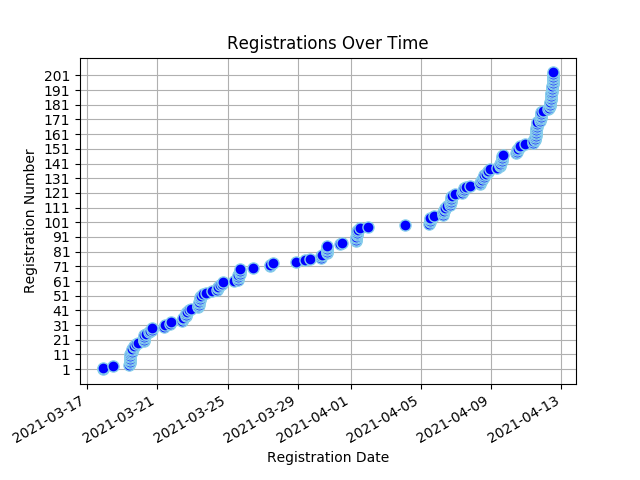
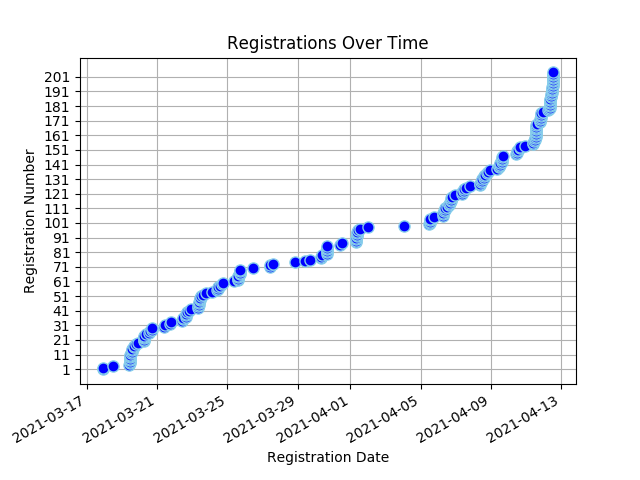
Registree stats backup on Mon 12 Apr 2021 13:23:07 SAST

diff --git a/content/registrees/_index.md b/content/registrees/_index.md
@@ -3,11 +3,11 @@ title: Registration Stats
 draft: false
 ---
 
-<ul><li><strong>Number of Registrees</strong>: 203</li>
+<ul><li><strong>Number of Registrees</strong>: 204</li>
 
 <li><strong>Number of Clubs</strong>: 62</li>
 
-<li><strong>Club With Most Attendees</strong>: Windhoek (13 registrees)</li>
+<li><strong>Club With Most Attendees</strong>: Windhoek (14 registrees)</li>
 </ul><h2>Registrees</h2>
 
 <script type="text/javascript" src="https://ajax.googleapis.com/ajax/libs/jquery/3.4.1/jquery.min.js"></script>
@@ -33,6 +33,6 @@ draft: false
         </tr>
     </thead>
     <tbody>
-<tr><td>Natalie Abrahams</td><td>Cape Town</td><td>410W</td></tr><tr><td>Rashid Adams</td><td>Athlone</td><td>410W</td></tr><tr><td>Linda Anderson</td><td>George</td><td>410W</td></tr><tr><td>Neale Stewart ANDREWS</td><td>Cowies Hill</td><td>410E</td></tr><tr><td>Linda Baumgarten</td><td>Sea Point</td><td>410W</td></tr><tr><td>Ulrike Behrens</td><td>Windhoek</td><td>410W</td></tr><tr><td>Valencia Beukes-Williams</td><td>Kuilsriver</td><td>410W</td></tr><tr><td>Belinda Blakeman</td><td>North Durban</td><td>410E</td></tr><tr><td>Lyn(ette) Botha</td><td>Cowies Hill</td><td>410E</td></tr><tr><td>JOSE BRAGA BORGES</td><td>Malmesbury</td><td>410W</td></tr><tr><td>JOSE BRAGA BORGES</td><td>Malmesbury</td><td>410W</td></tr><tr><td>Paul Brauteseth</td><td>Port Shepstone</td><td>410E</td></tr><tr><td>Nelle Buhrmann</td><td>Sea Point</td><td>410W</td></tr><tr><td>Christopher Bull</td><td>The Wilds</td><td>410E</td></tr><tr><td>Herman Cadman</td><td>Stellenbosch</td><td>410W</td></tr><tr><td>Artemis Calomiris</td><td>Helderberg</td><td>410W</td></tr><tr><td>Linda Ann Cannone</td><td>Fish Hoek</td><td>410W</td></tr><tr><td>Lizelle Castle</td><td>Athlone</td><td>410W</td></tr><tr><td>Sue Charles</td><td>Tokai</td><td>410W</td></tr><tr><td>Perry Chetty</td><td>East Coast</td><td>410E</td></tr><tr><td>Delaney Yeltsin Cloete</td><td>Eden</td><td>410W</td></tr><tr><td>Kate Coppen</td><td>Letaba Tzaneen</td><td>410E</td></tr><tr><td>Kate Coppen</td><td>Letaba Tzaneen</td><td>410E</td></tr><tr><td>Esme Cornelius</td><td>Kuilsriver</td><td>410W</td></tr><tr><td>Sharon Cottle</td><td>Groote Schuur</td><td>410W</td></tr><tr><td>Peter Daniel</td><td>Gordons Bay</td><td>410W</td></tr><tr><td>Norma Daniel</td><td>Gordons Bay</td><td>410W</td></tr><tr><td>Engela de Kock</td><td>Swellendam</td><td>410W</td></tr><tr><td>Francois de Kock</td><td>Swellendam</td><td>410W</td></tr><tr><td>ANDRE DE VILLIERS</td><td>Malgas</td><td>410W</td></tr><tr><td>ANDRE DE VILLIERS</td><td>Malgas</td><td>410W</td></tr><tr><td>Peggy Du Plooy</td><td>Krugersdorp</td><td>410E</td></tr><tr><td>Ivan Du Plooy</td><td>Krugersdorp</td><td>410E</td></tr><tr><td>Tammy du Plooy</td><td>Alberton</td><td>410E</td></tr><tr><td>Marc du Plooy</td><td>Alberton</td><td>410E</td></tr><tr><td>Desiree du Toit</td><td>Ramsgate</td><td>410E</td></tr><tr><td>Freddie Erasmus</td><td>Uitenhage</td><td>410E</td></tr><tr><td>Natalie Etridge</td><td>Sedgefield</td><td>410W</td></tr><tr><td>AIDAN Ewers</td><td>Newlands</td><td>410W</td></tr><tr><td>Roger Fahrbach</td><td>Windhoek</td><td>410W</td></tr><tr><td>Beate Fahrbach</td><td>Windhoek</td><td>410W</td></tr><tr><td>Jules Flanagan</td><td>Tokai</td><td>410W</td></tr><tr><td>Charles Flanagan</td><td>Tokai</td><td>410W</td></tr><tr><td>Clive Fox</td><td>Merriman</td><td>410W</td></tr><tr><td>Pat Fox</td><td>Merriman</td><td>410W</td></tr><tr><td>Martin Froise</td><td>Letaba Tzaneen</td><td>410E</td></tr><tr><td>Valerie Graham</td><td>Nelspruit</td><td>410E</td></tr><tr><td>Mike Graham</td><td>Nelspruit</td><td>410E</td></tr><tr><td>Viv Grater</td><td>Sedgefield</td><td>410W</td></tr><tr><td>Matty Grobler</td><td>Henties Bay</td><td>410W</td></tr><tr><td>Mattheus Groves</td><td>Sedgefield</td><td>410W</td></tr><tr><td>Barbara Haywood</td><td>Eden</td><td>410W</td></tr><tr><td>Mike Heathcote</td><td>Port Shepstone</td><td>410E</td></tr><tr><td>Zarina Hendricks</td><td>Athlone</td><td>410W</td></tr><tr><td>Evelyn Herzfeld</td><td>Edenvale</td><td>410E</td></tr><tr><td>Dorothy Hess</td><td>Kuilsriver</td><td>410W</td></tr><tr><td>Wendy Higgins</td><td>Wilro Park</td><td>410E</td></tr><tr><td>Jacqui Hocking</td><td>Midrand</td><td>410E</td></tr><tr><td>Cliff Hocking</td><td>Midrand</td><td>410E</td></tr><tr><td>Ellen G W Hoffmann</td><td>Windhoek</td><td>410W</td></tr><tr><td>KEITH ALEXANDER HOLLIMAN</td><td>Alberton</td><td>410E</td></tr><tr><td>Liz Houston</td><td>Table View</td><td>410W</td></tr><tr><td>John Houston</td><td>Table View</td><td>410W</td></tr><tr><td>Alna Jackson</td><td>Pretoria Jakaranda</td><td>410E</td></tr><tr><td>Dawid Jacobs</td><td>Durbanville</td><td>410W</td></tr><tr><td>Jean Jacobs</td><td>Mitchells Plain</td><td>410W</td></tr><tr><td>WOLSLEY Jacobson</td><td>Cape Town</td><td>410W</td></tr><tr><td>MALCOLM JOHNSTON</td><td>Standerton</td><td>410E</td></tr><tr><td>Grant Jonathan</td><td>Gordons Bay</td><td>410W</td></tr><tr><td>Jerome Kern</td><td>Groote Schuur</td><td>410W</td></tr><tr><td>Ian King</td><td>Alberton</td><td>410E</td></tr><tr><td>Sandy King</td><td>Alberton</td><td>410E</td></tr><tr><td>Christa Koekemoer</td><td>Letaba Tzaneen</td><td>410E</td></tr><tr><td>Muya Koloko</td><td>Durbanville</td><td>410W</td></tr><tr><td>Zwaai Kruger</td><td>Sedgefield</td><td>410W</td></tr><tr><td>Natalie Laas</td><td>Alberton</td><td>410E</td></tr><tr><td>Bevil Lakay</td><td>Mitchells Plain</td><td>410W</td></tr><tr><td>Bevil Lakay</td><td>Mitchells Plain</td><td>410W</td></tr><tr><td>Paula Lang</td><td>Gordons Bay</td><td>410W</td></tr><tr><td>Jimmy Lang</td><td>Gordons Bay</td><td>410W</td></tr><tr><td>Jeanette le Roux</td><td>Gonubie</td><td>410E</td></tr><tr><td>Heather Lee</td><td>Cape Of Good Hope</td><td>410W</td></tr><tr><td>Dee Love</td><td>Cowies Hill</td><td>410E</td></tr><tr><td>Zarina Luck</td><td>Newcastle</td><td>410E</td></tr><tr><td>Pam MacRobert</td><td>Groote Schuur</td><td>410W</td></tr><tr><td>Pam MacRobert</td><td>Groote Schuur</td><td>410W</td></tr><tr><td>Sharon Mangwende</td><td>Cape Town</td><td>410W</td></tr><tr><td>Richard MARCHANT</td><td>The Wilds</td><td>410E</td></tr><tr><td>Beaulieu Mare</td><td>Benoni Lakes</td><td>410E</td></tr><tr><td>Nick Maré</td><td>Benoni Lakes</td><td>410E</td></tr><tr><td>Jean Masson</td><td>Port Shepstone</td><td>410E</td></tr><tr><td>LANCE MAYTHAM</td><td>Swellendam</td><td>410W</td></tr><tr><td>ROSEMARIE MAYTHAM</td><td>Swellendam</td><td>410W</td></tr><tr><td>David Mccullough</td><td>Pretoria South</td><td>410E</td></tr><tr><td>Rochelle McDonald</td><td>Vereeniging</td><td>410E</td></tr><tr><td>Alec McKerrow</td><td>Port Alfred</td><td>410E</td></tr><tr><td>Stuart McPherson</td><td>Newlands</td><td>410W</td></tr><tr><td>Mark Meltzer</td><td>The Wilds</td><td>410E</td></tr><tr><td>Denis Meyer</td><td>Port Shepstone</td><td>410E</td></tr><tr><td>Roy Michas</td><td>Midrand</td><td>410E</td></tr><tr><td>Dawn Michas</td><td>Midrand</td><td>410E</td></tr><tr><td>BERNICE MILLS</td><td>Centurion</td><td>410E</td></tr><tr><td>Patrick Mills</td><td>Centurion</td><td>410E</td></tr><tr><td>Cherie Milosevich</td><td>Milnerton</td><td>410W</td></tr><tr><td>Alana Mitchell</td><td>Rustenburg</td><td>410E</td></tr><tr><td>Juan Mitchell</td><td>Rustenburg</td><td>410E</td></tr><tr><td>Virginia Mkhize</td><td>Cape Town</td><td>410W</td></tr><tr><td>Frauke E. Moeller</td><td>Windhoek</td><td>410W</td></tr><tr><td>Bernadine Moses</td><td>Cape Town</td><td>410W</td></tr><tr><td>Jacques Mostert</td><td>Merriman</td><td>410W</td></tr><tr><td>Suzanne Murray</td><td>Vereeniging</td><td>410E</td></tr><tr><td>Gary Murray</td><td>Vereeniging</td><td>410E</td></tr><tr><td>Pieter Myburg</td><td>Wellington</td><td>410W</td></tr><tr><td>Pieter Nel</td><td>George</td><td>410W</td></tr><tr><td>Tillie Nel</td><td>Eden</td><td>410W</td></tr><tr><td>Mike Newlands</td><td>Port Alfred</td><td>410E</td></tr><tr><td>Mike Newlands</td><td>Port Alfred</td><td>410E</td></tr><tr><td>Angela Niehaus</td><td>Bergvliet</td><td>410W</td></tr><tr><td>Rachel Nortjie</td><td>Mitchells Plain</td><td>410W</td></tr><tr><td>Chris Ocker</td><td>Fish Hoek</td><td>410W</td></tr><tr><td>Jenny Ocker</td><td>Fish Hoek</td><td>410W</td></tr><tr><td>Debra Olivier</td><td>Sedgefield</td><td>410W</td></tr><tr><td>Teresa Pantoleon</td><td>Vereeniging</td><td>410E</td></tr><tr><td>Sundru Pillay</td><td>Durbanville</td><td>410W</td></tr><tr><td>Patrick Pillay</td><td>Tygerberg Hills</td><td>410W</td></tr><tr><td>Tracey Polkinghorne</td><td>Kensington</td><td>410E</td></tr><tr><td>Gavin Polkinghorne</td><td>Kensington</td><td>410E</td></tr><tr><td>BRIAN PORTEOUS</td><td>Hibberdene</td><td>410E</td></tr><tr><td>Mary-Anne Ras</td><td>Swellendam</td><td>410W</td></tr><tr><td>Leon Jacobus Ras</td><td>Swellendam</td><td>410E</td></tr><tr><td>Hugo Reniers</td><td>Nelspruit</td><td>410E</td></tr><tr><td>Sandy Roman</td><td>Bergvliet</td><td>410W</td></tr><tr><td>Mark Rossouw</td><td>Tokai</td><td>410W</td></tr><tr><td>Anthonie Petrus Roux</td><td>Moorreesburg</td><td>410W</td></tr><tr><td>Irene Rugheimer</td><td>Bedfordview</td><td>410E</td></tr><tr><td>Ingrid Russell</td><td>Fish Hoek</td><td>410W</td></tr><tr><td>Rodney Sabatier</td><td>Letaba Tzaneen</td><td>410E</td></tr><tr><td>Sharon Sampie</td><td>Bergvliet</td><td>410W</td></tr><tr><td>Frank Schatz</td><td>Windhoek</td><td>410W</td></tr><tr><td>Vera Schatz</td><td>Windhoek</td><td>410W</td></tr><tr><td>Francis Searle</td><td>Kouga</td><td>410E</td></tr><tr><td>Gloria Searle</td><td>Kouga</td><td>410E</td></tr><tr><td>Ami Sell</td><td>Windhoek</td><td>410W</td></tr><tr><td>Beryl Simpson</td><td>Cape Town</td><td>410W</td></tr><tr><td>Kenlis Sircoulomb</td><td>Windhoek</td><td>410W</td></tr><tr><td>Holger Sircoulomb</td><td>Windhoek</td><td>410W</td></tr><tr><td>Hennie Smeer</td><td>Windhoek</td><td>410W</td></tr><tr><td>Sue Smit</td><td>Centurion</td><td>410E</td></tr><tr><td>Herman Smit</td><td>Swellendam</td><td>410W</td></tr><tr><td>Jeff Smith</td><td>Port Shepstone</td><td>410E</td></tr><tr><td>Bennie Smith</td><td>Wellington</td><td>410W</td></tr><tr><td>Carmen Dolores Smith</td><td>Tokai</td><td>410W</td></tr><tr><td>David John Smith</td><td>Tokai</td><td>410W</td></tr><tr><td>LYN SNYMAN</td><td>Deep South</td><td>410W</td></tr><tr><td>Diana Sochen</td><td>Sea Point</td><td>410W</td></tr><tr><td>Max Stander</td><td>Port Alfred</td><td>410E</td></tr><tr><td>Ashley Stander</td><td>Krugersdorp</td><td>410E</td></tr><tr><td>Brett Jason Stander</td><td>Krugersdorp</td><td>410E</td></tr><tr><td>TIM STEENBERG</td><td>Wellington</td><td>410W</td></tr><tr><td>RORY stier</td><td>Deep South</td><td>410W</td></tr><tr><td>Patrick Strauss</td><td>Kuilsriver</td><td>410W</td></tr><tr><td>Lauryn Talbot</td><td>Benoni Lakes</td><td>410E</td></tr><tr><td>Pierre Theron</td><td>Midrand</td><td>410E</td></tr><tr><td>Moira Theron</td><td>Midrand</td><td>410E</td></tr><tr><td>Diane Townsend</td><td>Benoni Lakes</td><td>410E</td></tr><tr><td>Diane Townsend</td><td>Benoni Lakes</td><td>410E</td></tr><tr><td>David Alex Tshikala</td><td>Athlone</td><td>410W</td></tr><tr><td>Alistair Tuckett</td><td>Roodepoort Clearwater Cyber</td><td>410E</td></tr><tr><td>Rowan Tuckett</td><td>Roodepoort Clearwater Cyber</td><td>410E</td></tr><tr><td>Gail Tuckett</td><td>Roodepoort Clearwater Cyber</td><td>410E</td></tr><tr><td>Jiri Uchytil</td><td>Alberton</td><td>410E</td></tr><tr><td>Carl van Blerk</td><td>Eden</td><td>410W</td></tr><tr><td>HILARY LISE VAN BREDA</td><td>Cape Town</td><td>410W</td></tr><tr><td>Marina Van de Merwe</td><td>Malmesbury</td><td>410W</td></tr><tr><td>Ingrid van der Merwe</td><td>Letaba Tzaneen</td><td>410E</td></tr><tr><td>PATRICIA VAN DER MERWE</td><td>East London Port Rex</td><td>410E</td></tr><tr><td>MARINA VAN DER MERWE</td><td>Malmesbury</td><td>410W</td></tr><tr><td>Sydney van Heerden</td><td>Wilro Park</td><td>410E</td></tr><tr><td>Sandy van Heerden</td><td>Wilro Park</td><td>410E</td></tr><tr><td>Craig van Heerden</td><td>East London Beacon Bay</td><td>410E</td></tr><tr><td>Neville Van Rensburg</td><td>Moorreesburg</td><td>410W</td></tr><tr><td>Johan van Rensburg</td><td>Windhoek</td><td>410W</td></tr><tr><td>Anne van Rensburg</td><td>Windhoek</td><td>410W</td></tr><tr><td>Jeannie van Wulven</td><td>Tygerberg Hills</td><td>410W</td></tr><tr><td>Alan van Wulven</td><td>Tygerberg Hills</td><td>410W</td></tr><tr><td>Deon van Wulven</td><td>Tygerberg Hills</td><td>410W</td></tr><tr><td>Jeannie van Wulven</td><td>Tygerberg Hills</td><td>410W</td></tr><tr><td>Alan van Wulven</td><td>Tygerberg Hills</td><td>410W</td></tr><tr><td>Kim van Wyk</td><td>North Durban</td><td>410E</td></tr><tr><td>Lindie van Wyk</td><td>Pretoria Jakaranda</td><td>410E</td></tr><tr><td>Edith Van Wyk-Nelson</td><td>Kuilsriver</td><td>410W</td></tr><tr><td>Louis Venter</td><td>Letaba Tzaneen</td><td>410E</td></tr><tr><td>Russell Volker</td><td>King William's Town</td><td>410E</td></tr><tr><td>Brian von der Decken</td><td>King William's Town</td><td>410E</td></tr><tr><td>Rinette Von Mollendorf</td><td>Durbanville</td><td>410W</td></tr><tr><td>Rochelle Vorster</td><td>Sedgefield</td><td>410W</td></tr><tr><td>Alastair Warman</td><td>Port Shepstone</td><td>410E</td></tr><tr><td>Allan Watson</td><td>Sea Point</td><td>410W</td></tr><tr><td>Alison Watson</td><td>Sedgefield</td><td>410W</td></tr><tr><td>Neville Williamson</td><td>Port Alfred</td><td>410E</td></tr><tr><td>Geila Wills</td><td>Athlone</td><td>410W</td></tr><tr><td>Rocky Wright</td><td>Table View</td><td>410W</td></tr><tr><td>Judy Young</td><td>Durbanville</td><td>410W</td></tr>
+<tr><td>Natalie Abrahams</td><td>Cape Town</td><td>410W</td></tr><tr><td>Rashid Adams</td><td>Athlone</td><td>410W</td></tr><tr><td>Linda Anderson</td><td>George</td><td>410W</td></tr><tr><td>Neale Stewart ANDREWS</td><td>Cowies Hill</td><td>410E</td></tr><tr><td>Linda Baumgarten</td><td>Sea Point</td><td>410W</td></tr><tr><td>Ulrike Behrens</td><td>Windhoek</td><td>410W</td></tr><tr><td>Valencia Beukes-Williams</td><td>Kuilsriver</td><td>410W</td></tr><tr><td>Belinda Blakeman</td><td>North Durban</td><td>410E</td></tr><tr><td>Lyn(ette) Botha</td><td>Cowies Hill</td><td>410E</td></tr><tr><td>JOSE BRAGA BORGES</td><td>Malmesbury</td><td>410W</td></tr><tr><td>JOSE BRAGA BORGES</td><td>Malmesbury</td><td>410W</td></tr><tr><td>Paul Brauteseth</td><td>Port Shepstone</td><td>410E</td></tr><tr><td>Nelle Buhrmann</td><td>Sea Point</td><td>410W</td></tr><tr><td>Christopher Bull</td><td>The Wilds</td><td>410E</td></tr><tr><td>Herman Cadman</td><td>Stellenbosch</td><td>410W</td></tr><tr><td>Artemis Calomiris</td><td>Helderberg</td><td>410W</td></tr><tr><td>Linda Ann Cannone</td><td>Fish Hoek</td><td>410W</td></tr><tr><td>Lizelle Castle</td><td>Athlone</td><td>410W</td></tr><tr><td>Sue Charles</td><td>Tokai</td><td>410W</td></tr><tr><td>Perry Chetty</td><td>East Coast</td><td>410E</td></tr><tr><td>Delaney Yeltsin Cloete</td><td>Eden</td><td>410W</td></tr><tr><td>Kate Coppen</td><td>Letaba Tzaneen</td><td>410E</td></tr><tr><td>Kate Coppen</td><td>Letaba Tzaneen</td><td>410E</td></tr><tr><td>Esme Cornelius</td><td>Kuilsriver</td><td>410W</td></tr><tr><td>Sharon Cottle</td><td>Groote Schuur</td><td>410W</td></tr><tr><td>Peter Daniel</td><td>Gordons Bay</td><td>410W</td></tr><tr><td>Norma Daniel</td><td>Gordons Bay</td><td>410W</td></tr><tr><td>Engela de Kock</td><td>Swellendam</td><td>410W</td></tr><tr><td>Francois de Kock</td><td>Swellendam</td><td>410W</td></tr><tr><td>ANDRE DE VILLIERS</td><td>Malgas</td><td>410W</td></tr><tr><td>ANDRE DE VILLIERS</td><td>Malgas</td><td>410W</td></tr><tr><td>Peggy Du Plooy</td><td>Krugersdorp</td><td>410E</td></tr><tr><td>Ivan Du Plooy</td><td>Krugersdorp</td><td>410E</td></tr><tr><td>Tammy du Plooy</td><td>Alberton</td><td>410E</td></tr><tr><td>Marc du Plooy</td><td>Alberton</td><td>410E</td></tr><tr><td>Desiree du Toit</td><td>Ramsgate</td><td>410E</td></tr><tr><td>Freddie Erasmus</td><td>Uitenhage</td><td>410E</td></tr><tr><td>Natalie Etridge</td><td>Sedgefield</td><td>410W</td></tr><tr><td>AIDAN Ewers</td><td>Newlands</td><td>410W</td></tr><tr><td>Roger Fahrbach</td><td>Windhoek</td><td>410W</td></tr><tr><td>Beate Fahrbach</td><td>Windhoek</td><td>410W</td></tr><tr><td>Jules Flanagan</td><td>Tokai</td><td>410W</td></tr><tr><td>Charles Flanagan</td><td>Tokai</td><td>410W</td></tr><tr><td>Clive Fox</td><td>Merriman</td><td>410W</td></tr><tr><td>Pat Fox</td><td>Merriman</td><td>410W</td></tr><tr><td>Martin Froise</td><td>Letaba Tzaneen</td><td>410E</td></tr><tr><td>Valerie Graham</td><td>Nelspruit</td><td>410E</td></tr><tr><td>Mike Graham</td><td>Nelspruit</td><td>410E</td></tr><tr><td>Viv Grater</td><td>Sedgefield</td><td>410W</td></tr><tr><td>Matty Grobler</td><td>Henties Bay</td><td>410W</td></tr><tr><td>Mattheus Groves</td><td>Sedgefield</td><td>410W</td></tr><tr><td>Barbara Haywood</td><td>Eden</td><td>410W</td></tr><tr><td>Mike Heathcote</td><td>Port Shepstone</td><td>410E</td></tr><tr><td>Zarina Hendricks</td><td>Athlone</td><td>410W</td></tr><tr><td>Evelyn Herzfeld</td><td>Edenvale</td><td>410E</td></tr><tr><td>Dorothy Hess</td><td>Kuilsriver</td><td>410W</td></tr><tr><td>Wendy Higgins</td><td>Wilro Park</td><td>410E</td></tr><tr><td>Jacqui Hocking</td><td>Midrand</td><td>410E</td></tr><tr><td>Cliff Hocking</td><td>Midrand</td><td>410E</td></tr><tr><td>Ellen G W Hoffmann</td><td>Windhoek</td><td>410W</td></tr><tr><td>KEITH ALEXANDER HOLLIMAN</td><td>Alberton</td><td>410E</td></tr><tr><td>Liz Houston</td><td>Table View</td><td>410W</td></tr><tr><td>John Houston</td><td>Table View</td><td>410W</td></tr><tr><td>Alna Jackson</td><td>Pretoria Jakaranda</td><td>410E</td></tr><tr><td>Dawid Jacobs</td><td>Durbanville</td><td>410W</td></tr><tr><td>Jean Jacobs</td><td>Mitchells Plain</td><td>410W</td></tr><tr><td>WOLSLEY Jacobson</td><td>Cape Town</td><td>410W</td></tr><tr><td>MALCOLM JOHNSTON</td><td>Standerton</td><td>410E</td></tr><tr><td>Grant Jonathan</td><td>Gordons Bay</td><td>410W</td></tr><tr><td>Jerome Kern</td><td>Groote Schuur</td><td>410W</td></tr><tr><td>Ian King</td><td>Alberton</td><td>410E</td></tr><tr><td>Sandy King</td><td>Alberton</td><td>410E</td></tr><tr><td>Christa Koekemoer</td><td>Letaba Tzaneen</td><td>410E</td></tr><tr><td>Muya Koloko</td><td>Durbanville</td><td>410W</td></tr><tr><td>Zwaai Kruger</td><td>Sedgefield</td><td>410W</td></tr><tr><td>Natalie Laas</td><td>Alberton</td><td>410E</td></tr><tr><td>Bevil Lakay</td><td>Mitchells Plain</td><td>410W</td></tr><tr><td>Bevil Lakay</td><td>Mitchells Plain</td><td>410W</td></tr><tr><td>Paula Lang</td><td>Gordons Bay</td><td>410W</td></tr><tr><td>Jimmy Lang</td><td>Gordons Bay</td><td>410W</td></tr><tr><td>Jeanette le Roux</td><td>Gonubie</td><td>410E</td></tr><tr><td>Heather Lee</td><td>Cape Of Good Hope</td><td>410W</td></tr><tr><td>Dee Love</td><td>Cowies Hill</td><td>410E</td></tr><tr><td>Zarina Luck</td><td>Newcastle</td><td>410E</td></tr><tr><td>Pam MacRobert</td><td>Groote Schuur</td><td>410W</td></tr><tr><td>Pam MacRobert</td><td>Groote Schuur</td><td>410W</td></tr><tr><td>Sharon Mangwende</td><td>Cape Town</td><td>410W</td></tr><tr><td>Richard MARCHANT</td><td>The Wilds</td><td>410E</td></tr><tr><td>Beaulieu Mare</td><td>Benoni Lakes</td><td>410E</td></tr><tr><td>Nick Maré</td><td>Benoni Lakes</td><td>410E</td></tr><tr><td>Jean Masson</td><td>Port Shepstone</td><td>410E</td></tr><tr><td>LANCE MAYTHAM</td><td>Swellendam</td><td>410W</td></tr><tr><td>ROSEMARIE MAYTHAM</td><td>Swellendam</td><td>410W</td></tr><tr><td>David Mccullough</td><td>Pretoria South</td><td>410E</td></tr><tr><td>Rochelle McDonald</td><td>Vereeniging</td><td>410E</td></tr><tr><td>Alec McKerrow</td><td>Port Alfred</td><td>410E</td></tr><tr><td>Stuart McPherson</td><td>Newlands</td><td>410W</td></tr><tr><td>Mark Meltzer</td><td>The Wilds</td><td>410E</td></tr><tr><td>Denis Meyer</td><td>Port Shepstone</td><td>410E</td></tr><tr><td>Roy Michas</td><td>Midrand</td><td>410E</td></tr><tr><td>Dawn Michas</td><td>Midrand</td><td>410E</td></tr><tr><td>BERNICE MILLS</td><td>Centurion</td><td>410E</td></tr><tr><td>Patrick Mills</td><td>Centurion</td><td>410E</td></tr><tr><td>Cherie Milosevich</td><td>Milnerton</td><td>410W</td></tr><tr><td>Alana Mitchell</td><td>Rustenburg</td><td>410E</td></tr><tr><td>Juan Mitchell</td><td>Rustenburg</td><td>410E</td></tr><tr><td>Virginia Mkhize</td><td>Cape Town</td><td>410W</td></tr><tr><td>Frauke E. Moeller</td><td>Windhoek</td><td>410W</td></tr><tr><td>Bernadine Moses</td><td>Cape Town</td><td>410W</td></tr><tr><td>Jacques Mostert</td><td>Merriman</td><td>410W</td></tr><tr><td>Suzanne Murray</td><td>Vereeniging</td><td>410E</td></tr><tr><td>Gary Murray</td><td>Vereeniging</td><td>410E</td></tr><tr><td>Pieter Myburg</td><td>Wellington</td><td>410W</td></tr><tr><td>Pieter Nel</td><td>George</td><td>410W</td></tr><tr><td>Tillie Nel</td><td>Eden</td><td>410W</td></tr><tr><td>Mike Newlands</td><td>Port Alfred</td><td>410E</td></tr><tr><td>Mike Newlands</td><td>Port Alfred</td><td>410E</td></tr><tr><td>Angela Niehaus</td><td>Bergvliet</td><td>410W</td></tr><tr><td>Rachel Nortjie</td><td>Mitchells Plain</td><td>410W</td></tr><tr><td>Chris Ocker</td><td>Fish Hoek</td><td>410W</td></tr><tr><td>Jenny Ocker</td><td>Fish Hoek</td><td>410W</td></tr><tr><td>Debra Olivier</td><td>Sedgefield</td><td>410W</td></tr><tr><td>Teresa Pantoleon</td><td>Vereeniging</td><td>410E</td></tr><tr><td>Sundru Pillay</td><td>Durbanville</td><td>410W</td></tr><tr><td>Patrick Pillay</td><td>Tygerberg Hills</td><td>410W</td></tr><tr><td>Tracey Polkinghorne</td><td>Kensington</td><td>410E</td></tr><tr><td>Gavin Polkinghorne</td><td>Kensington</td><td>410E</td></tr><tr><td>BRIAN PORTEOUS</td><td>Hibberdene</td><td>410E</td></tr><tr><td>Mary-Anne Ras</td><td>Swellendam</td><td>410W</td></tr><tr><td>Leon Jacobus Ras</td><td>Swellendam</td><td>410E</td></tr><tr><td>Hugo Reniers</td><td>Nelspruit</td><td>410E</td></tr><tr><td>Sandy Roman</td><td>Bergvliet</td><td>410W</td></tr><tr><td>Mark Rossouw</td><td>Tokai</td><td>410W</td></tr><tr><td>Anthonie Petrus Roux</td><td>Moorreesburg</td><td>410W</td></tr><tr><td>Irene Rugheimer</td><td>Bedfordview</td><td>410E</td></tr><tr><td>Ingrid Russell</td><td>Fish Hoek</td><td>410W</td></tr><tr><td>Rodney Sabatier</td><td>Letaba Tzaneen</td><td>410E</td></tr><tr><td>Sharon Sampie</td><td>Bergvliet</td><td>410W</td></tr><tr><td>Frank Schatz</td><td>Windhoek</td><td>410W</td></tr><tr><td>Vera Schatz</td><td>Windhoek</td><td>410W</td></tr><tr><td>Frank Schatz</td><td>Windhoek</td><td>410W</td></tr><tr><td>Francis Searle</td><td>Kouga</td><td>410E</td></tr><tr><td>Gloria Searle</td><td>Kouga</td><td>410E</td></tr><tr><td>Ami Sell</td><td>Windhoek</td><td>410W</td></tr><tr><td>Beryl Simpson</td><td>Cape Town</td><td>410W</td></tr><tr><td>Kenlis Sircoulomb</td><td>Windhoek</td><td>410W</td></tr><tr><td>Holger Sircoulomb</td><td>Windhoek</td><td>410W</td></tr><tr><td>Hennie Smeer</td><td>Windhoek</td><td>410W</td></tr><tr><td>Sue Smit</td><td>Centurion</td><td>410E</td></tr><tr><td>Herman Smit</td><td>Swellendam</td><td>410W</td></tr><tr><td>Jeff Smith</td><td>Port Shepstone</td><td>410E</td></tr><tr><td>Bennie Smith</td><td>Wellington</td><td>410W</td></tr><tr><td>Carmen Dolores Smith</td><td>Tokai</td><td>410W</td></tr><tr><td>David John Smith</td><td>Tokai</td><td>410W</td></tr><tr><td>LYN SNYMAN</td><td>Deep South</td><td>410W</td></tr><tr><td>Diana Sochen</td><td>Sea Point</td><td>410W</td></tr><tr><td>Max Stander</td><td>Port Alfred</td><td>410E</td></tr><tr><td>Ashley Stander</td><td>Krugersdorp</td><td>410E</td></tr><tr><td>Brett Jason Stander</td><td>Krugersdorp</td><td>410E</td></tr><tr><td>TIM STEENBERG</td><td>Wellington</td><td>410W</td></tr><tr><td>RORY stier</td><td>Deep South</td><td>410W</td></tr><tr><td>Patrick Strauss</td><td>Kuilsriver</td><td>410W</td></tr><tr><td>Lauryn Talbot</td><td>Benoni Lakes</td><td>410E</td></tr><tr><td>Pierre Theron</td><td>Midrand</td><td>410E</td></tr><tr><td>Moira Theron</td><td>Midrand</td><td>410E</td></tr><tr><td>Diane Townsend</td><td>Benoni Lakes</td><td>410E</td></tr><tr><td>Diane Townsend</td><td>Benoni Lakes</td><td>410E</td></tr><tr><td>David Alex Tshikala</td><td>Athlone</td><td>410W</td></tr><tr><td>Alistair Tuckett</td><td>Roodepoort Clearwater Cyber</td><td>410E</td></tr><tr><td>Rowan Tuckett</td><td>Roodepoort Clearwater Cyber</td><td>410E</td></tr><tr><td>Gail Tuckett</td><td>Roodepoort Clearwater Cyber</td><td>410E</td></tr><tr><td>Jiri Uchytil</td><td>Alberton</td><td>410E</td></tr><tr><td>Carl van Blerk</td><td>Eden</td><td>410W</td></tr><tr><td>HILARY LISE VAN BREDA</td><td>Cape Town</td><td>410W</td></tr><tr><td>Marina Van de Merwe</td><td>Malmesbury</td><td>410W</td></tr><tr><td>Ingrid van der Merwe</td><td>Letaba Tzaneen</td><td>410E</td></tr><tr><td>PATRICIA VAN DER MERWE</td><td>East London Port Rex</td><td>410E</td></tr><tr><td>MARINA VAN DER MERWE</td><td>Malmesbury</td><td>410W</td></tr><tr><td>Sydney van Heerden</td><td>Wilro Park</td><td>410E</td></tr><tr><td>Sandy van Heerden</td><td>Wilro Park</td><td>410E</td></tr><tr><td>Craig van Heerden</td><td>East London Beacon Bay</td><td>410E</td></tr><tr><td>Neville Van Rensburg</td><td>Moorreesburg</td><td>410W</td></tr><tr><td>Johan van Rensburg</td><td>Windhoek</td><td>410W</td></tr><tr><td>Anne van Rensburg</td><td>Windhoek</td><td>410W</td></tr><tr><td>Jeannie van Wulven</td><td>Tygerberg Hills</td><td>410W</td></tr><tr><td>Alan van Wulven</td><td>Tygerberg Hills</td><td>410W</td></tr><tr><td>Deon van Wulven</td><td>Tygerberg Hills</td><td>410W</td></tr><tr><td>Jeannie van Wulven</td><td>Tygerberg Hills</td><td>410W</td></tr><tr><td>Alan van Wulven</td><td>Tygerberg Hills</td><td>410W</td></tr><tr><td>Kim van Wyk</td><td>North Durban</td><td>410E</td></tr><tr><td>Lindie van Wyk</td><td>Pretoria Jakaranda</td><td>410E</td></tr><tr><td>Edith Van Wyk-Nelson</td><td>Kuilsriver</td><td>410W</td></tr><tr><td>Louis Venter</td><td>Letaba Tzaneen</td><td>410E</td></tr><tr><td>Russell Volker</td><td>King William's Town</td><td>410E</td></tr><tr><td>Brian von der Decken</td><td>King William's Town</td><td>410E</td></tr><tr><td>Rinette Von Mollendorf</td><td>Durbanville</td><td>410W</td></tr><tr><td>Rochelle Vorster</td><td>Sedgefield</td><td>410W</td></tr><tr><td>Alastair Warman</td><td>Port Shepstone</td><td>410E</td></tr><tr><td>Allan Watson</td><td>Sea Point</td><td>410W</td></tr><tr><td>Alison Watson</td><td>Sedgefield</td><td>410W</td></tr><tr><td>Neville Williamson</td><td>Port Alfred</td><td>410E</td></tr><tr><td>Geila Wills</td><td>Athlone</td><td>410W</td></tr><tr><td>Rocky Wright</td><td>Table View</td><td>410W</td></tr><tr><td>Judy Young</td><td>Durbanville</td><td>410W</td></tr>
 </tbody>
 </table>

diff --git a/content/full_stats/_index.md b/content/full_stats/_index.md
@@ -16,17 +16,17 @@ draft: false
 </head>
 <body>
 <h1 style="color: #000000;">Full Registration Stats</h1>
-<ul><li><strong>Number of Registrees</strong>: 203</li>
+<ul><li><strong>Number of Registrees</strong>: 204</li>
 <li><strong>Number of Clubs</strong>: 62</li>
-<li><strong>Club With Most Attendees</strong>: Windhoek (13 registrees)</li>
+<li><strong>Club With Most Attendees</strong>: Windhoek (14 registrees)</li>
 
-<li><strong>Number of District 410W Convention Attendees</strong>: 112</li>
-<li><strong>Number of District 410W Convention Voters</strong>: 54</li>
+<li><strong>Number of District 410W Convention Attendees</strong>: 113</li>
+<li><strong>Number of District 410W Convention Voters</strong>: 55</li>
 <li><strong>Number of District 410E Convention Attendees</strong>: 82</li>
 <li><strong>Number of District 410E Convention Voters</strong>: 44</li>
 
-<li><strong>Number of MD410 Convention Attendees</strong>: 170</li>
-<li><strong>Number of MD410 Convention Voters</strong>: 89</li>
+<li><strong>Number of MD410 Convention Attendees</strong>: 171</li>
+<li><strong>Number of MD410 Convention Voters</strong>: 90</li>
 
 </ul>
 <h2>Registrees</h2>
@@ -1592,6 +1592,17 @@ draft: false
     
 <td>101</td>
 <td>Vera Schatz</td>
+<td>Windhoek</td>
+<td>410W</td>
+<td style="background-color: lightgreen">Yes</td>
+<td style="background-color: lightgreen">Yes</td>
+<td style="background-color: lightgreen">Yes</td>
+<td>No</td>
+</tr>
+
+    
+<td>217</td>
+<td>Frank Schatz</td>
 <td>Windhoek</td>
 <td>410W</td>
 <td style="background-color: lightgreen">Yes</td>
